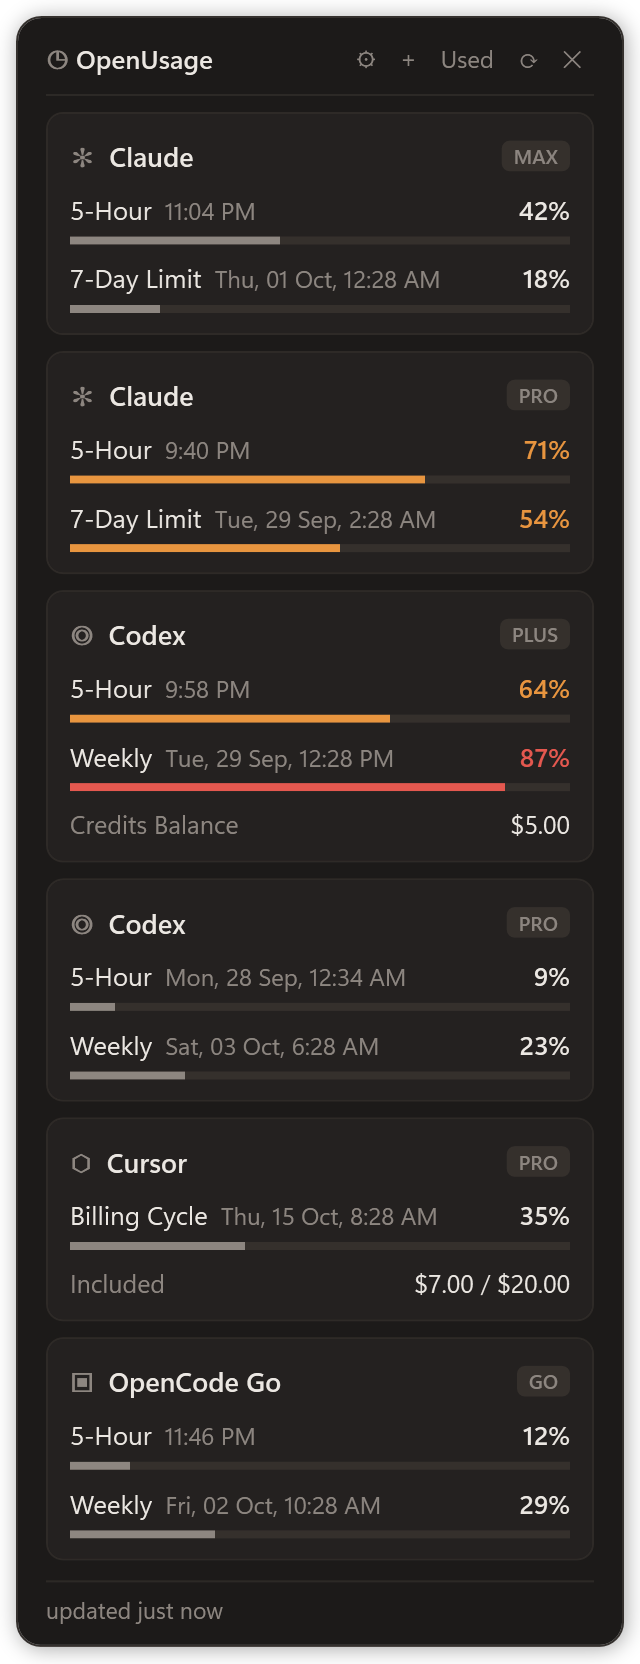
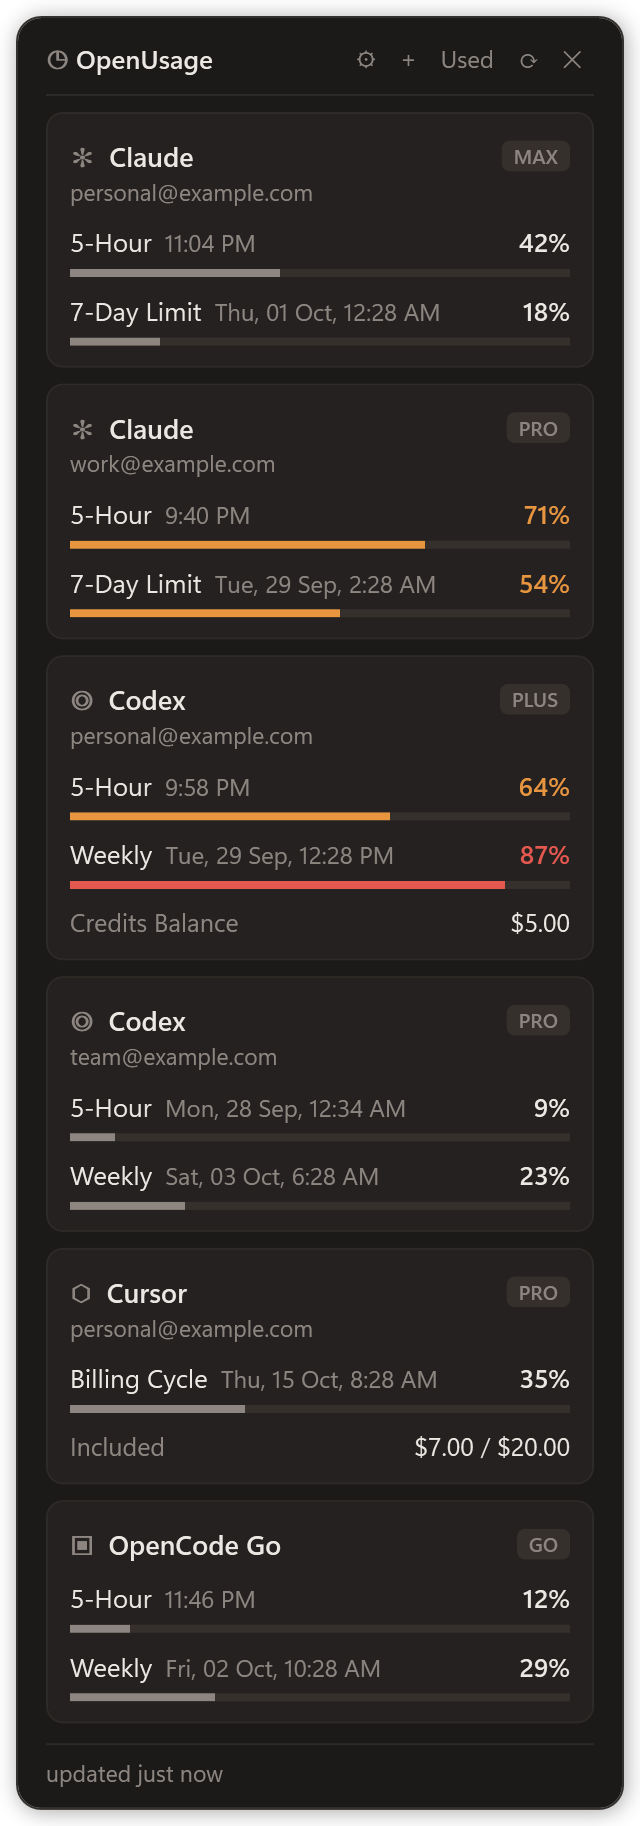
Redesenha o modo compacto e ajusta limites esgotados
- Compacto: uma linha por conta em todas as empresas, com anel duplo
  (semana / 5h), nome, plano e próximo reset (↻) e os números 5h / wk
  alinhados à direita. Legível na escala 1x.
- Compacto esconde provedores sem conta; o normal continua mostrando.
- Limite esgotado aparece sempre como anel cheio vermelho, também em Left.
- Linha sem nome de conta mostra só o reset.
- Mesmas mudanças no widget macOS; imagens do README atualizadas.

diff --git a/widget-mac/OpenUsage.swift b/widget-mac/OpenUsage.swift
@@ -214,6 +214,15 @@ final class Model: ObservableObject {
     }
   }
 
+  /**
+   * In compact mode a provider with no account at all (never signed in, no key, nothing to show) gets no card;
+   * the normal layout keeps it, with the hint on how to sign in.
+   */
+  var shown: [ProviderUsage] {
+    if layout != "compact" { return data }
+    return data.filter { $0.account != nil || !$0.windows.isEmpty || !$0.extras.isEmpty || $0.error == nil }
+  }
+
   var trayText: String {
     let parts = data.compactMap { u -> String? in
       guard let m = u.windows.map(\.usedPct).max() else { return nil }
@@ -401,7 +410,7 @@ struct Card: View {
 }
 
 // ---- compact ---------------------------------------------------------------------
-// One card per provider; each account is a ring pair: outer arc = weekly (or the billing cycle), inner = 5 hours.
+// One card per provider, one line per account with a ring pair: outer arc = weekly (or the billing cycle), inner = 5 hours.
 
 struct Slots {
   var short: UsageWindow?
@@ -452,44 +461,41 @@ func tipText(_ u: ProviderUsage, _ display: String) -> String {
   return lines.joined(separator: "\n")
 }
 
+/** Outer arc = weekly (or the billing cycle), inner arc = 5 hours. The numbers sit beside it, not inside. */
 struct Ring: View {
   let u: ProviderUsage
   let display: String
-  var size: CGFloat = 56
+  var size: CGFloat = 42
   // Arcs grow from zero when the ring first appears, then follow new values.
   @StateObject private var appeared = LocalState(false)
 
   var body: some View {
     let s = slots(u)
-    let t: CGFloat = 5
+    let t: CGFloat = 4
     let inner = size - 2 * (t + 3)
-    let main = s.short ?? s.long
+    let both = s.short != nil && s.long != nil
     ZStack {
       Circle().stroke(C.track, lineWidth: t).frame(width: size - t, height: size - t)
-      if let long = s.long { arc(long, diameter: size - t, color: level(long.usedPct) ?? C.muted) }
-      if let short = s.short, s.long != nil {
-        Circle().stroke(C.track, lineWidth: t).frame(width: inner - t, height: inner - t)
-        arc(short, diameter: inner - t, color: level(short.usedPct) ?? C.text)
+      if both { Circle().stroke(C.track, lineWidth: t).frame(width: inner - t, height: inner - t) }
+      if let long = s.long { arc(long, diameter: size - t, width: t, color: level(long.usedPct) ?? C.muted) }
+      if let short = s.short {
+        arc(short, diameter: (both ? inner : size) - t, width: t, color: level(short.usedPct) ?? C.text)
       }
-      if let m = main {
-        let value = Int(shown(m, display).rounded())
-        // Three digits need a smaller size to stay inside the inner ring.
-        (Text("\(value)").font(.system(size: value >= 100 ? 11.5 : 13.5, weight: .semibold))
-          .foregroundColor(level(m.usedPct) ?? C.text)
-          + Text("%").font(.system(size: 9)).foregroundColor(C.muted))
-      } else {
-        Text("!").font(.system(size: 13.5, weight: .semibold)).foregroundColor(C.warn)
+      if s.short == nil && s.long == nil {
+        Text("!").font(.system(size: 13, weight: .semibold)).foregroundColor(C.warn)
       }
     }
     .frame(width: size, height: size)
     .onAppear { withAnimation(.easeOut(duration: 0.55)) { appeared.value = true } }
   }
 
-  func arc(_ w: UsageWindow, diameter: CGFloat, color: Color) -> some View {
-    let p = appeared.value ? CGFloat(max(0, min(100, shown(w, display))) / 100) : 0
+  func arc(_ w: UsageWindow, diameter: CGFloat, width: CGFloat, color: Color) -> some View {
+    // A used-up limit is always a full ring (in red), whether numbers show used or left.
+    let pct = w.usedPct >= 100 ? 100 : shown(w, display)
+    let p = appeared.value ? CGFloat(max(0, min(100, pct)) / 100) : 0
     return Circle()
       .trim(from: 0, to: p)
-      .stroke(color, style: StrokeStyle(lineWidth: 5, lineCap: .round))
+      .stroke(color, style: StrokeStyle(lineWidth: width, lineCap: .round))
       .rotationEffect(.degrees(-90))
       .frame(width: diameter, height: diameter)
       // Under 1% a round-capped arc is just a dot, which reads as noise.
@@ -498,36 +504,7 @@ struct Ring: View {
   }
 }
 
-/** Several accounts sit side by side: ring, short name and the weekly number under it. */
-struct AccountTile: View {
-  let u: ProviderUsage
-  let display: String
-  @StateObject private var hover = LocalState(false)
-
-  var body: some View {
-    let s = slots(u)
-    let sub: String = {
-      if let l = s.long, s.short != nil { return "\(slotName(l)) \(Int(shown(l, display).rounded()))%" }
-      return slotName(s.long ?? s.short)
-    }()
-    VStack(spacing: 0) {
-      Ring(u: u, display: display, size: 52)
-      let short = shortAccount(u)
-      if !short.isEmpty {
-        Text(short).font(.system(size: 11)).lineLimit(1).truncationMode(.tail).padding(.top, 6)
-      }
-      Text(sub).font(.system(size: 10)).foregroundColor(C.muted).padding(.top, short.isEmpty ? 6 : 0)
-    }
-    .frame(width: 59)
-    .padding(.vertical, 6)
-    .padding(.horizontal, 2)
-    .background(RoundedRectangle(cornerRadius: 8).fill(hover.value ? C.hover : Color.clear))
-    .onHover { hover.value = $0 }
-    .help(tipText(u, display))
-  }
-}
-
-/** A lone account gets its ring plus the numbers and reset times beside it. */
+/** One line per account: ring, name with plan and next reset, then the 5h / weekly numbers on the right. */
 struct AccountRow: View {
   let u: ProviderUsage
   let display: String
@@ -536,34 +513,46 @@ struct AccountRow: View {
   var body: some View {
     let s = slots(u)
     let ws = [s.short, s.long].compactMap { $0 }
-    HStack(spacing: 14) {
+    let plan = u.plan?.uppercased() ?? ""
+    let short = shortAccount(u)
+    // Without a known account (an API key, say) there is no name: the plan, or just the next line, leads.
+    let title = !short.isEmpty ? short : plan
+    let sub: (String, Color) = {
+      if let e = u.error { return ws.isEmpty ? (e, C.muted) : ("stale", C.warn) }
+      var parts: [String] = []
+      if !short.isEmpty && !plan.isEmpty { parts.append(plan) }
+      if let r = (s.short ?? s.long)?.resetsAt { parts.append("\u{21BB} \(formatResetShort(r))") }
+      return (parts.joined(separator: "  \u{00B7}  "), C.muted)
+    }()
+    HStack(spacing: 0) {
       Ring(u: u, display: display)
-      VStack(alignment: .leading, spacing: 2) {
-        if let a = u.account {
-          Text(a).font(.system(size: 11.5)).foregroundColor(C.muted).lineLimit(1).truncationMode(.tail).padding(.bottom, 1)
+      VStack(alignment: .leading, spacing: 1) {
+        if !title.isEmpty { Text(title).font(.system(size: 13)).lineLimit(1).truncationMode(.tail) }
+        if !sub.0.isEmpty {
+          Text(sub.0).font(.system(size: title.isEmpty ? 12 : 11.5)).foregroundColor(sub.1)
+            .lineLimit(title.isEmpty ? 2 : 1).truncationMode(.tail)
         }
+      }
+      .padding(.leading, 12)
+      .padding(.trailing, 10)
+      Spacer(minLength: 0)
+      // Numbers in a column of their own, so the percentages line up.
+      VStack(alignment: .trailing, spacing: 2) {
         ForEach(Array(ws.enumerated()), id: \.offset) { _, w in
-          HStack {
-            let reset = formatResetShort(w.resetsAt)
-            (Text(w.label).font(.system(size: 12.5))
-              + Text(reset.isEmpty ? "" : "  \(reset)").font(.system(size: 11)).foregroundColor(C.muted))
-              .lineLimit(1).truncationMode(.tail)
-            Spacer()
-            Text("\(Int(shown(w, display).rounded()))%").font(.system(size: 12.5, weight: .semibold))
+          HStack(spacing: 8) {
+            Text(slotName(w)).font(.system(size: 11.5)).foregroundColor(C.muted)
+            Text("\(Int(shown(w, display).rounded()))%").font(.system(size: 13, weight: .semibold))
               .foregroundColor(level(w.usedPct) ?? C.text)
+              .frame(minWidth: 34, alignment: .trailing)
           }
-        }
-        if ws.isEmpty, let e = u.error {
-          Text(e).font(.system(size: 11.5)).foregroundColor(C.muted).fixedSize(horizontal: false, vertical: true)
         }
       }
     }
-    .padding(6)
+    .padding(EdgeInsets(top: 5, leading: 6, bottom: 5, trailing: 8))
     .background(RoundedRectangle(cornerRadius: 8).fill(hover.value ? C.hover : Color.clear))
     .onHover { hover.value = $0 }
     .help(tipText(u, display))
     .padding(.horizontal, -6)
-    .padding(.top, 6)
   }
 }
 
@@ -590,7 +579,6 @@ struct CompactCard: View {
   var body: some View {
     let first = g.accounts[0]
     let name = first.name.replacingOccurrences(of: " \\(.*\\)$", with: "", options: .regularExpression)
-    let rows = stride(from: 0, to: g.accounts.count, by: 4).map { Array(g.accounts[$0..<min($0 + 4, g.accounts.count)]) }
     VStack(alignment: .leading, spacing: 0) {
       HStack {
         (Text("\(icons[g.id] ?? "")  ").foregroundColor(accents[g.id] ?? C.muted) + Text(name))
@@ -599,21 +587,12 @@ struct CompactCard: View {
         Text(g.accounts.count > 1 ? "\(g.accounts.count) accounts" : (first.plan?.uppercased() ?? ""))
           .font(.system(size: 10.5, weight: .semibold)).foregroundColor(C.muted)
       }
-      if g.accounts.count == 1 {
-        AccountRow(u: first, display: display)
-      } else {
-        VStack(alignment: .leading, spacing: 2) {
-          ForEach(Array(rows.enumerated()), id: \.offset) { _, row in
-            HStack(spacing: 0) {
-              ForEach(row, id: \.uid) { AccountTile(u: $0, display: display) }
-            }
-          }
-        }
-        .padding(.top, 6)
-        .padding(.horizontal, -4)
+      VStack(alignment: .leading, spacing: 0) {
+        ForEach(g.accounts, id: \.uid) { AccountRow(u: $0, display: display) }
       }
+      .padding(.top, 6)
     }
-    .padding(EdgeInsets(top: 10, leading: 12, bottom: 10, trailing: 12))
+    .padding(EdgeInsets(top: 10, leading: 12, bottom: 6, trailing: 12))
     .background(RoundedRectangle(cornerRadius: 10).fill(C.card))
     .overlay(RoundedRectangle(cornerRadius: 10).stroke(C.cardBorder, lineWidth: 1))
   }
@@ -795,14 +774,14 @@ struct WidgetView: View {
       .padding(.bottom, 8)
       .background(DragArea())
       Rectangle().fill(C.divider).frame(height: 1).padding(.bottom, 8)
-      if m.data.isEmpty {
+      if m.shown.isEmpty {
         Text(m.refreshing ? "Loading..." : "No data").foregroundColor(C.muted)
       }
       VStack(spacing: 8) {
         if m.layout == "compact" {
-          ForEach(groups(m.data)) { CompactCard(g: $0, display: m.display) }
+          ForEach(groups(m.shown)) { CompactCard(g: $0, display: m.display) }
         } else {
-          ForEach(m.data, id: \.uid) { Card(u: $0, display: m.display) }
+          ForEach(m.shown, id: \.uid) { Card(u: $0, display: m.display) }
         }
       }
       Rectangle().fill(C.divider).frame(height: 1).padding(.top, 10).padding(.bottom, 6)

diff --git a/README.md b/README.md
@@ -211,7 +211,7 @@ Hover a ring or a row to see every limit with its reset time, the plan and any e
 <img src="docs/settings.png" alt="OpenUsage settings: numbers, layout, version and updates" width="380">
 
 - **Numbers:** **Used** or **Left**, the default for every limit.
-- **Layout:** **Compact** (a card per provider with a ring per account) or **Normal** (a card per account with a bar per limit).
+- **Layout:** **Compact** (a card per provider, a line per account: the ring, the plan and next reset, then the 5h / weekly numbers) or **Normal** (a card per account with a bar per limit). Compact leaves out providers you are not signed in to; Normal keeps them with a hint on how to sign in. A used-up limit is always a full red ring, even when showing what is left.
 - **About:** the version and commit in use. The widget looks for a new version when it starts and once a day. **Update now** pulls it (`git pull --ff-only`) and restarts the widget; on macOS the app is rebuilt first. A copy installed from the ZIP (without Git) can't update itself: download it again.
 
 <details>
